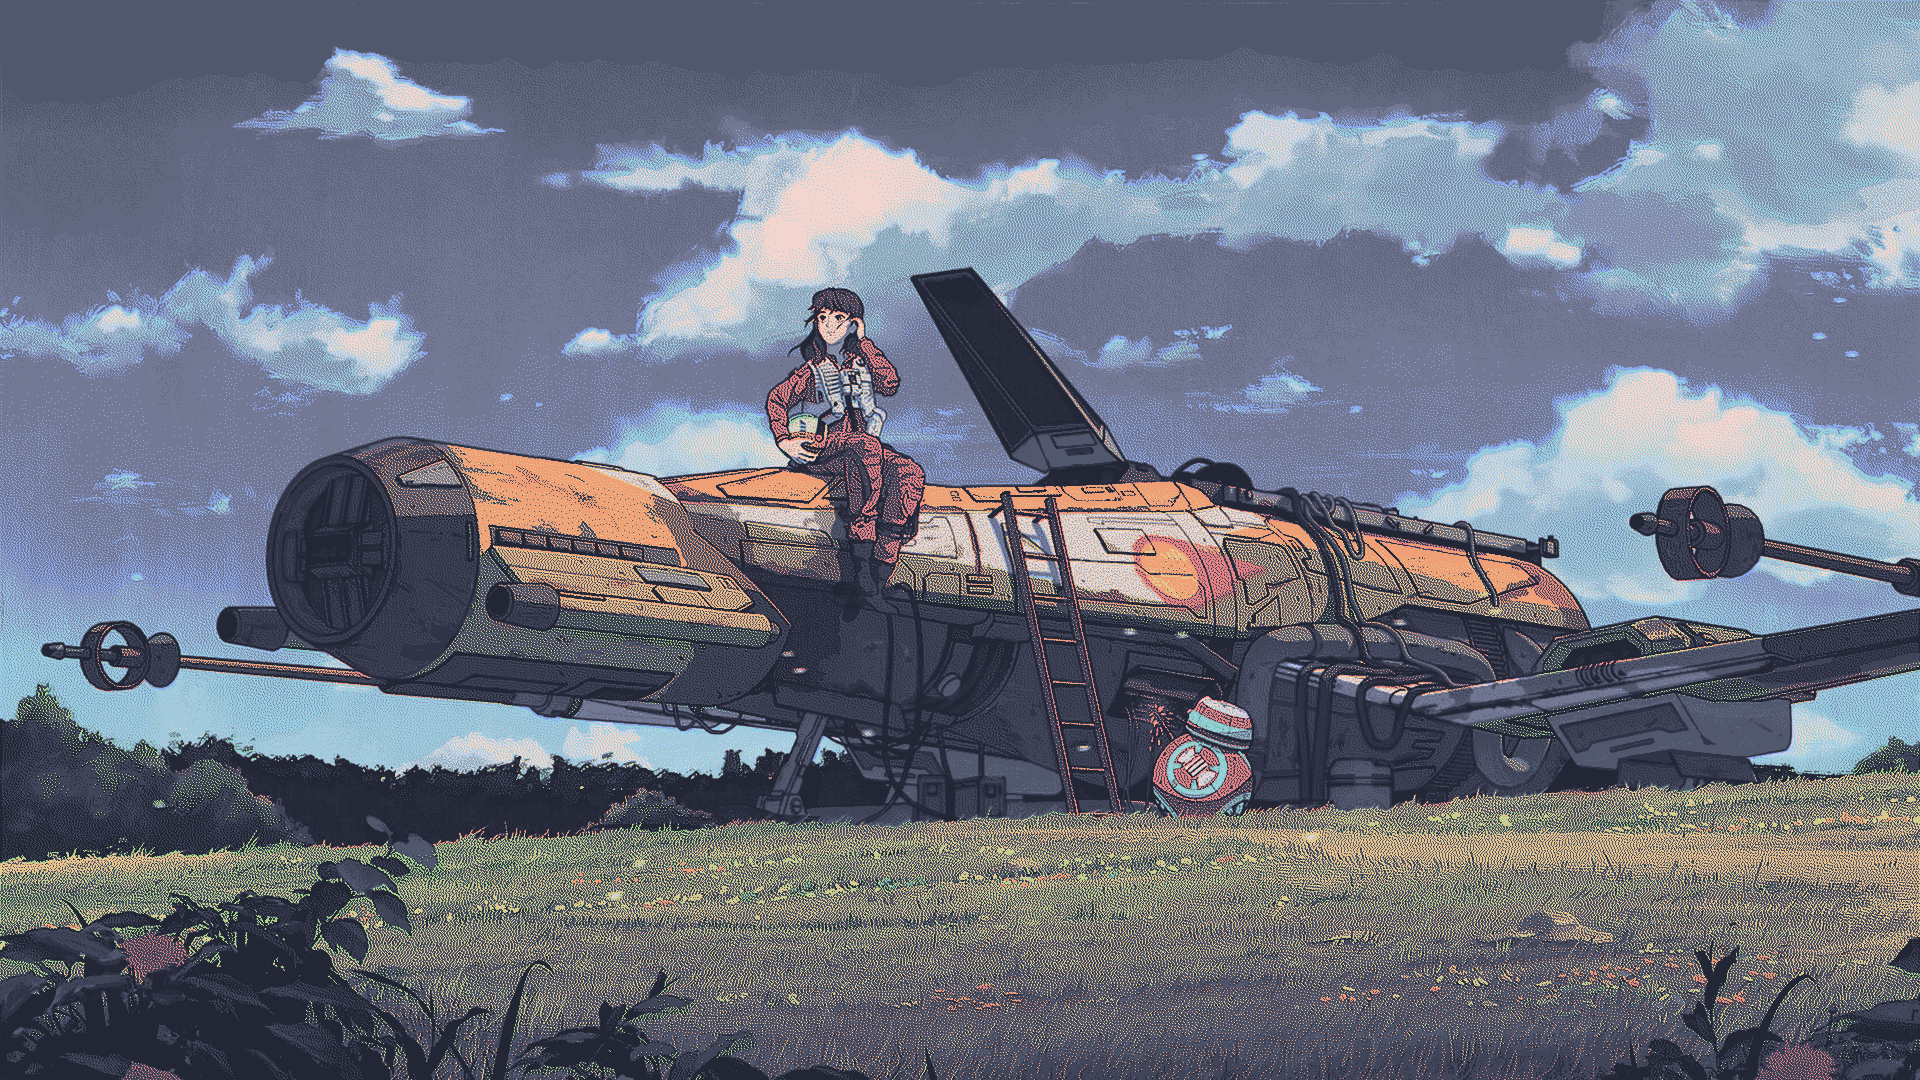
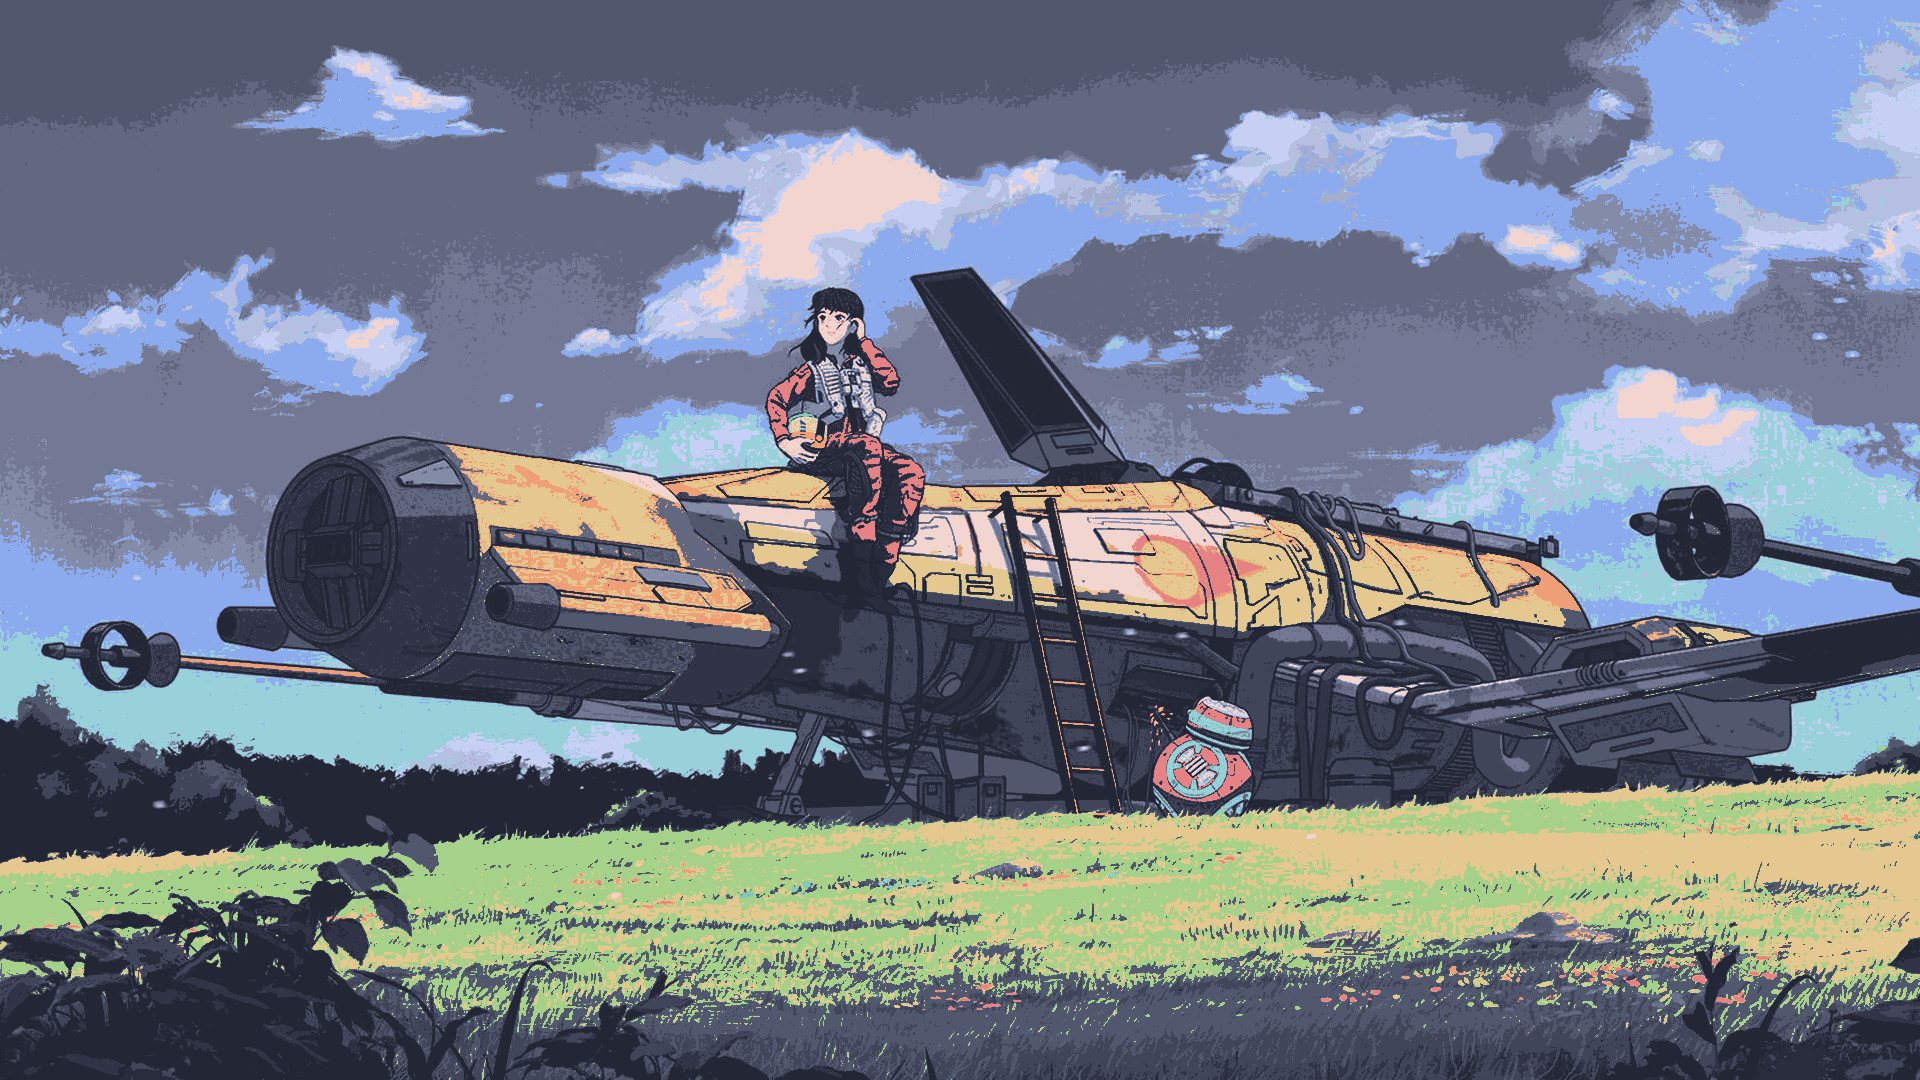
noise is still a problem

diff --git a/src/main.rs b/src/main.rs
@@ -1,6 +1,6 @@
 use image::{GenericImageView, Rgb, RgbImage};
 use palette::{
-    color_difference::{Ciede2000, ImprovedCiede2000, ImprovedDeltaE},
+    color_difference::Ciede2000,
     IntoColor, Lab, Srgb,
 };
 
@@ -25,51 +25,38 @@ fn main() {
         .map(|p| Srgb::new(p[0], p[1], p[2]))
         .collect();
     
+    let dither_strength = 0.7;
 
     let mut output_image: RgbImage = RgbImage::new(width, height);
-    println!("Processing image with JJN dithering and random noise...");
+    println!("Processing image with Hybrid Dithering (strength: {})...", dither_strength);
 
     for y in 0..height {
         for x in 0..width {
             let index = (y * width + x) as usize;
             let original_srgb = float_pixels[index];
             
-           
-
             let original_lab: Lab = original_srgb.into_linear().into_color();
             let closest_index = find_closest_color(original_lab, &lab_palette);
             let final_rgb_pixel = rgb_palette[closest_index];
 
             output_image.put_pixel(x, y, final_rgb_pixel);
 
+            let [r, g, b] = final_rgb_pixel.0;
             let final_srgb = Srgb::new(
-                final_rgb_pixel[0] as f32 / 255.0,
-                final_rgb_pixel[1] as f32 / 255.0,
-                final_rgb_pixel[2] as f32 / 255.0,
+                r as f32 / 255.0,
+                g as f32 / 255.0,
+                b as f32 / 255.0,
             );
-            let dither_strength = 1.0;
             
             let error_r = (original_srgb.red - final_srgb.red) * dither_strength;
             let error_g = (original_srgb.green - final_srgb.green) * dither_strength;
             let error_b = (original_srgb.blue - final_srgb.blue) * dither_strength;
 
             let weights = [
-            // Row y, x+1 and x+2
-            ((1, 0), 7.0 / 48.0),
-            ((2, 0), 5.0 / 48.0),
-            // Row y+1, from x-2 to x+2
-            ((-2, 1), 3.0 / 48.0),
-            ((-1, 1), 5.0 / 48.0),
-            ((0,  1), 7.0 / 48.0),
-            ((1,  1), 5.0 / 48.0),
-            ((2,  1), 3.0 / 48.0),
-            // Row y+2, from x-2 to x+2
-            ((-2, 2), 1.0 / 48.0),
-            ((-1, 2), 3.0 / 48.0),
-            ((0,  2), 5.0 / 48.0),
-            ((1,  2), 3.0 / 48.0),
-            ((2,  2), 1.0 / 48.0),
-        ]; 
+                ((1, 0), 7.0/48.0), ((2, 0), 5.0/48.0),
+                ((-2, 1), 3.0/48.0), ((-1, 1), 5.0/48.0), ((0, 1), 7.0/48.0), ((1, 1), 5.0/48.0), ((2, 1), 3.0/48.0),
+                ((-2, 2), 1.0/48.0), ((-1, 2), 3.0/48.0), ((0, 2), 5.0/48.0), ((1, 2), 3.0/48.0), ((2, 2), 1.0/48.0),
+            ]; 
 
             for &((dx, dy), weight) in &weights {
                 let nx = x as isize + dx;
@@ -78,25 +65,19 @@ fn main() {
                 if nx >= 0 && nx < width as isize && ny < height as isize {
                     let neighbor_index = (ny as u32 * width + nx as u32) as usize;
                     let mut neighbor = float_pixels[neighbor_index];
-                    neighbor.red = clamp(neighbor.red + error_r * weight);
-                    neighbor.green = clamp(neighbor.green + error_g * weight);
-                    neighbor.blue = clamp(neighbor.blue + error_b * weight);
+                    neighbor.red = (neighbor.red + error_r * weight).clamp(0.0, 1.0);
+                    neighbor.green = (neighbor.green + error_g * weight).clamp(0.0, 1.0);
+                    neighbor.blue = (neighbor.blue + error_b * weight).clamp(0.0, 1.0);
                     float_pixels[neighbor_index] = neighbor;
                 }
             }
         }
     }
-    println!("Dithering complete. Applying median filter...");
-   // let final_image = filter::median_filter(&output_image, 3, 3);
     
     output_image.save("output.png").expect("Failed to save image");
     println!("Image processing complete. Saved as output.png");
 }
 
-
-fn clamp(val: f32) -> f32 {
-    val.clamp(0.0, 1.0)
-}
 
 fn parse_hex(hex: &str) -> (u8, u8, u8) {
     let hex = hex.trim_start_matches('#');
@@ -124,8 +105,8 @@ fn find_closest_color(pixel_lab: Lab, palette: &[Lab]) -> usize {
         .min_by(|a, b| {
             let color_a = *a.1;
             let color_b = *b.1;
-            let diff_a = ImprovedCiede2000::improved_difference(pixel_lab, color_a);
-            let diff_b = ImprovedCiede2000::improved_difference(pixel_lab, color_b);
+            let diff_a = Ciede2000::difference(pixel_lab, color_a);
+            let diff_b = Ciede2000::difference(pixel_lab, color_b);
             diff_a.partial_cmp(&diff_b).unwrap()
         })
         .map(|(index, _)| index)
